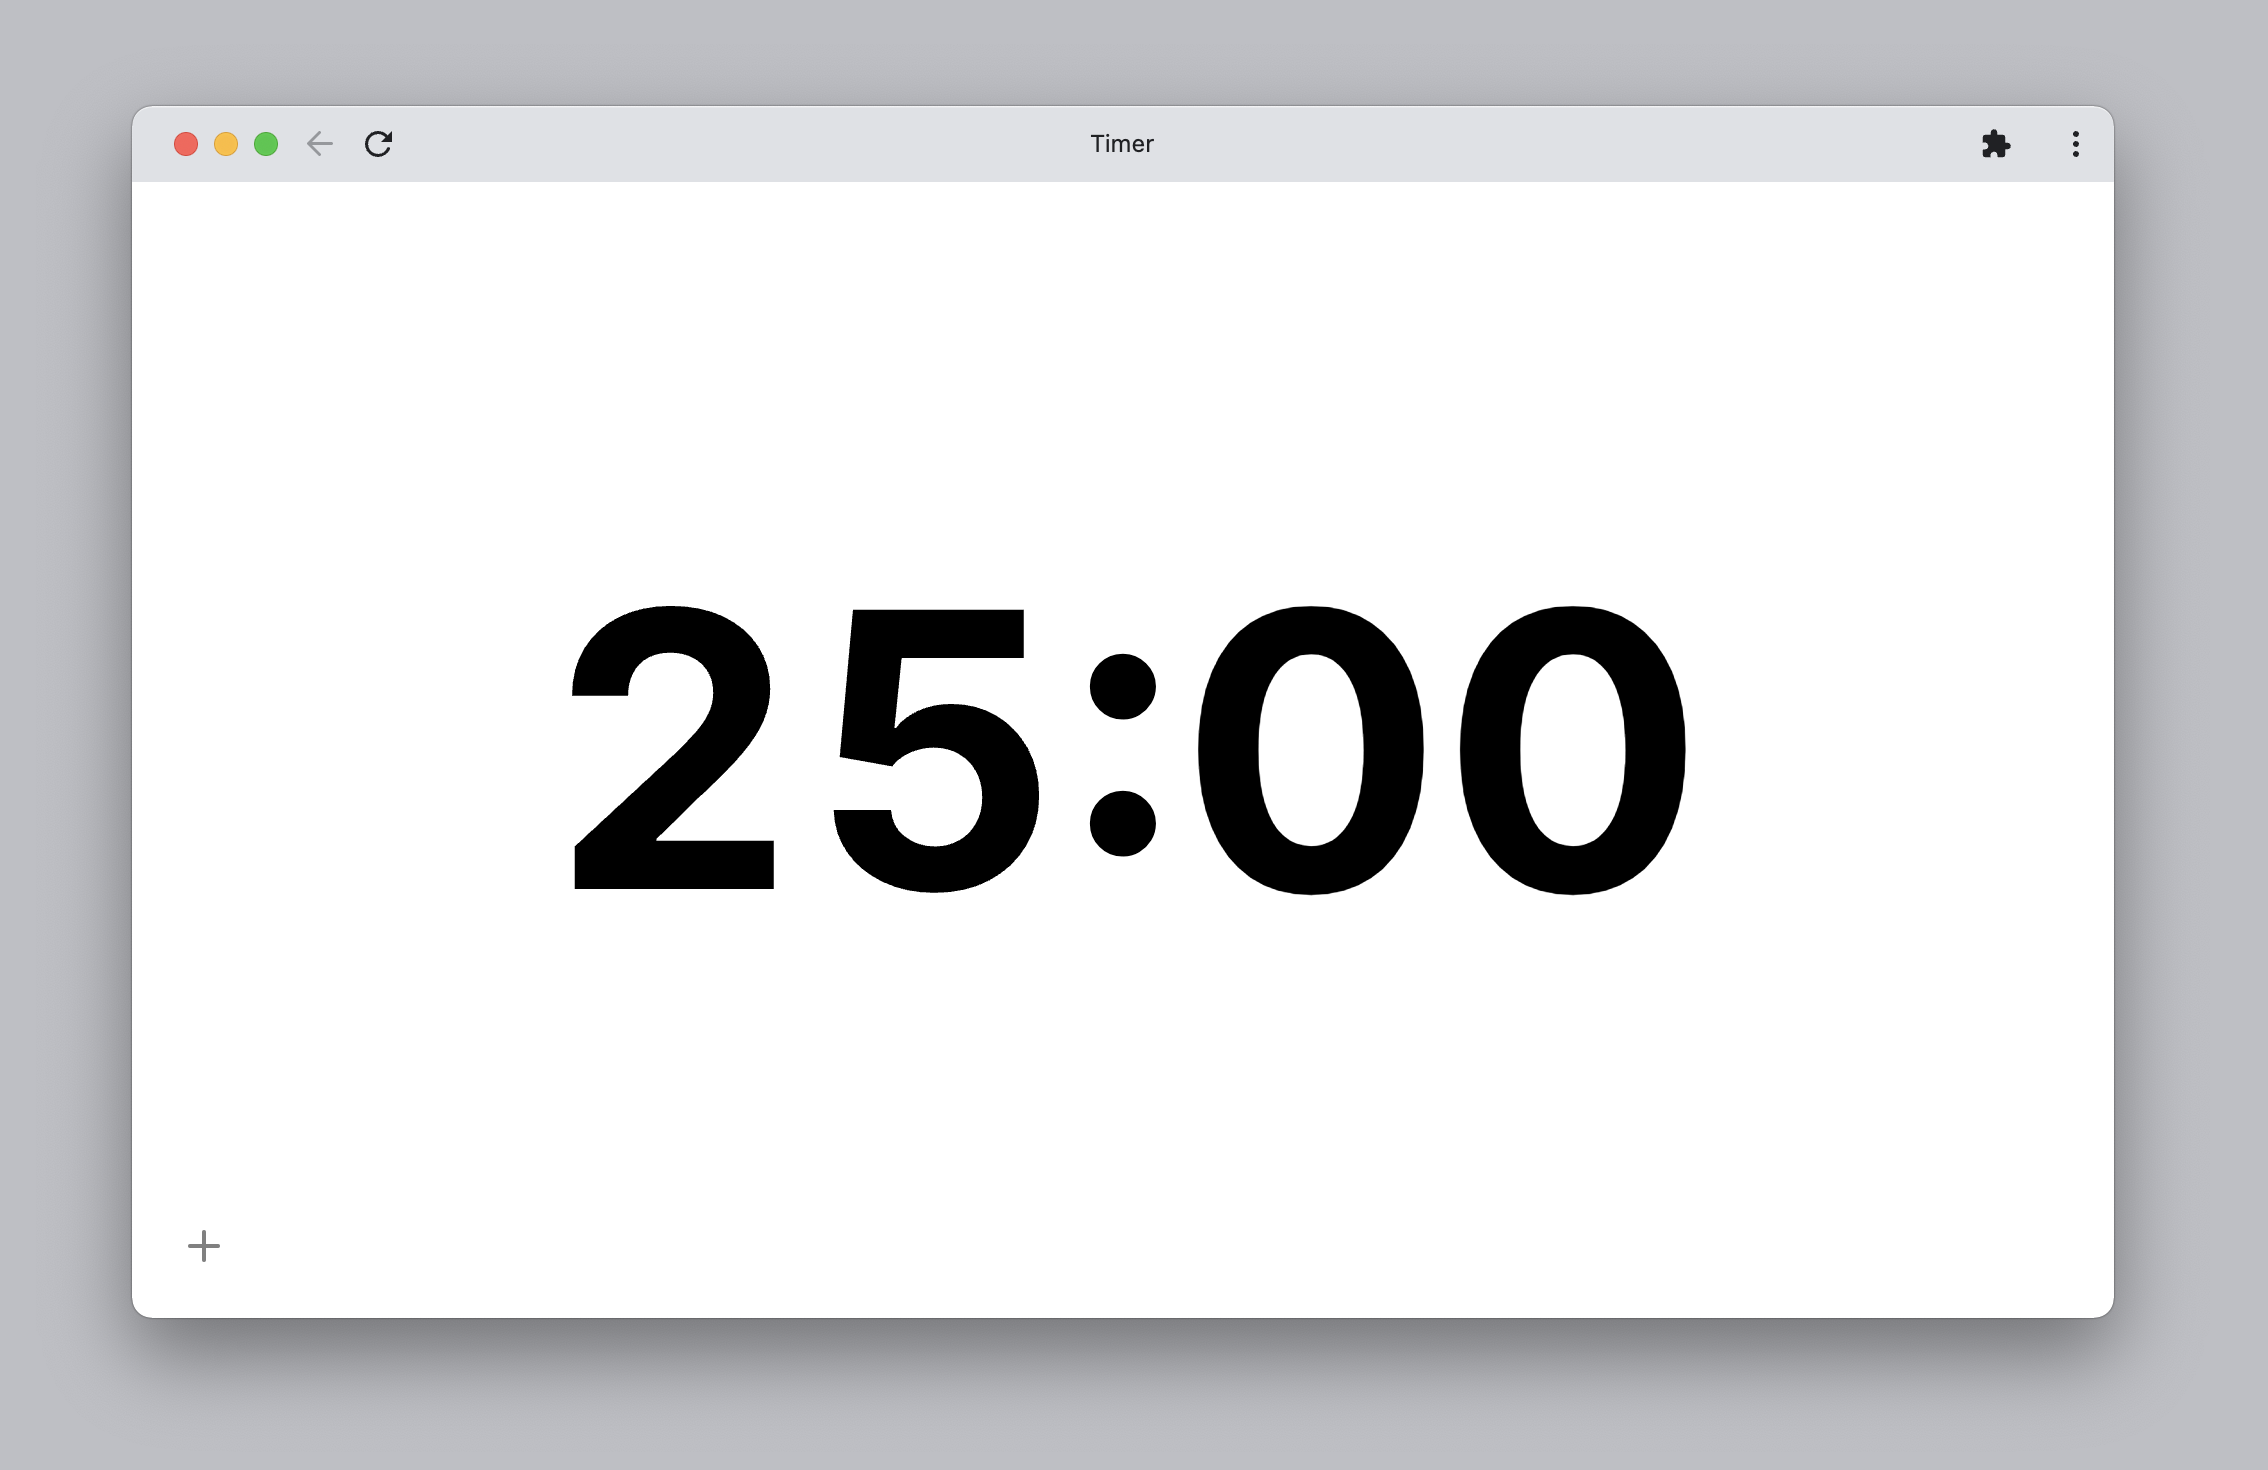
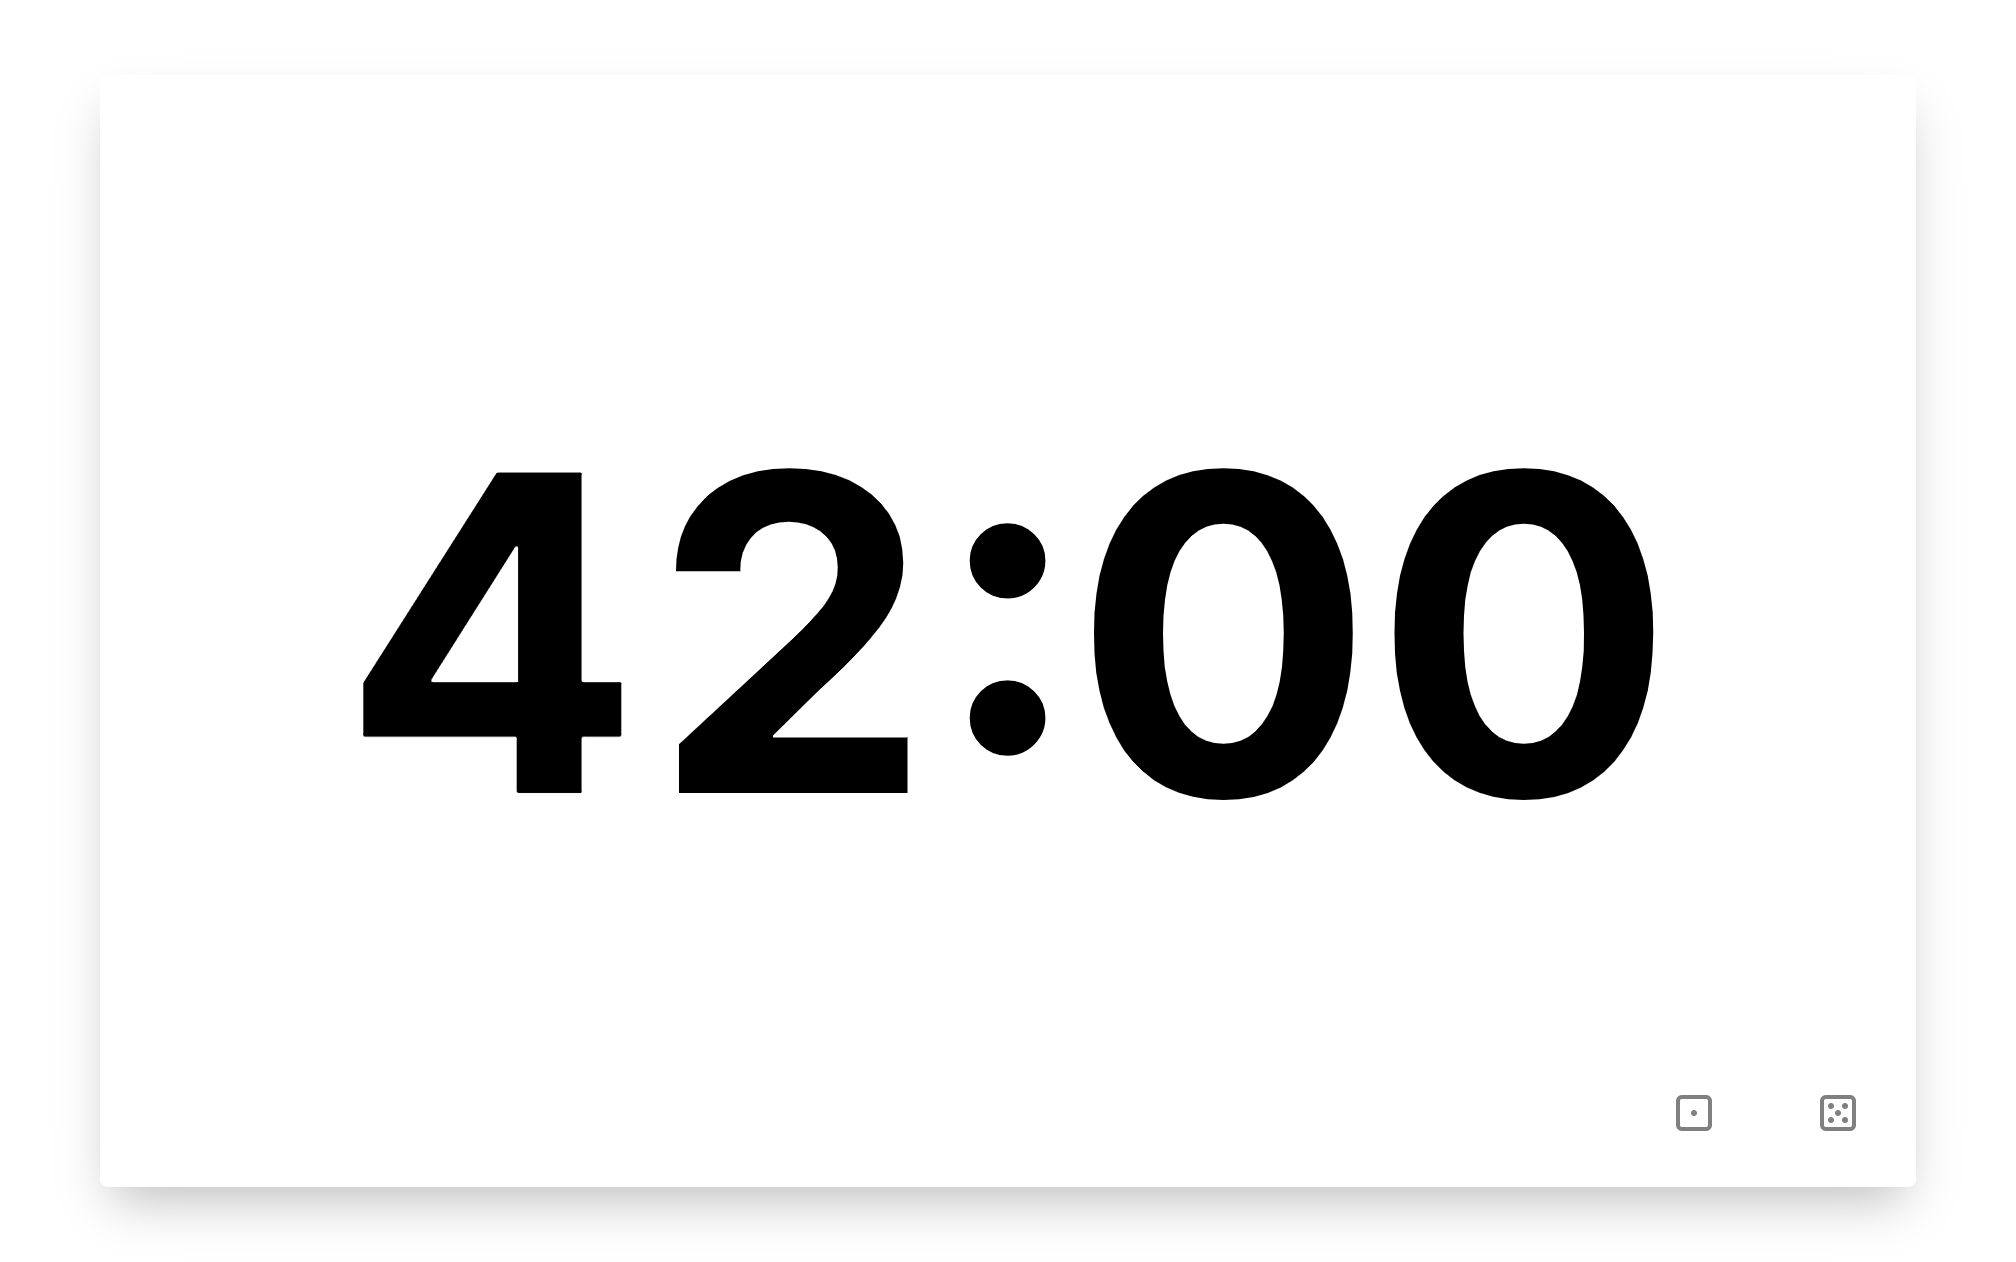
feat: 1 and 5 button

diff --git a/src/App.tsx b/src/App.tsx
@@ -1,4 +1,4 @@
-import { IconPlus } from "@tabler/icons";
+import { IconDice1, IconDice5 } from "@tabler/icons";
 import { useMachine, useSelector } from "@xstate/react";
 import { addMilliseconds, differenceInMilliseconds, format } from "date-fns";
 import * as React from "react";
@@ -7,6 +7,7 @@ import { assign, createMachine, State } from "xstate";
 import Tone from "./static_tone.mp3";
 
 const MIN_0 = 0;
+const MIN_1 = 60 * 1000;
 const MIN_5 = 5 * 60 * 1000;
 const AN_HOUR = 60 * 60 * 1000;
 
@@ -135,6 +136,7 @@ function App() {
   const accumulated = useSelector(service, (state: State<Context>) => state.context.accumulated);
   const forward = useCallback(() => send("FORWARD"), [send]);
   const add5 = useCallback(() => send({ type: "ADD", amount: MIN_5 }), [send]);
+  const add1 = useCallback(() => send({ type: "ADD", amount: MIN_1 }), [send]);
 
   return (
     <div className="flex w-full select-none flex-col items-center justify-center">
@@ -149,9 +151,17 @@ function App() {
           type="button"
           title="Add 5"
           className="mr-4 mb-4 rounded-full p-4 font-light transition-all hover:bg-gray-200 active:scale-90"
+          onClick={add1}
+        >
+          <IconDice1 />
+        </button>
+        <button
+          type="button"
+          title="Add 5"
+          className="mr-4 mb-4 rounded-full p-4 font-light transition-all hover:bg-gray-200 active:scale-90"
           onClick={add5}
         >
-          <IconPlus />
+          <IconDice5 />
         </button>
       </div>
     </div>
